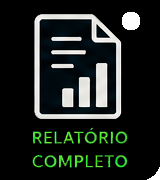
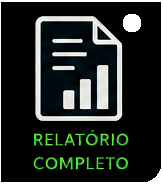
adequações finais - ajustes finos.

diff --git a/SEIAParkingManagement.py b/SEIAParkingManagement.py
@@ -60,7 +60,7 @@ SCALE_APP = 0.70 # ESCALA DA APLICAÇÃO   |
 
 
 global WIDTH, HEIGHT, K, J
-WIDTH = 1300
+WIDTH = 1310
 HEIGHT = 990
 K = 400 #variavel de ajuste para expansão da propriedade na HORIZONTAL 
 J = 530 ##variavel de ajuste para expansão da propriedade na VERTICAL 
@@ -97,6 +97,9 @@ class SEIAParkingManagement(QGraphicsView):
 
         self.scene = QGraphicsScene()
         self.setScene(self.scene)
+        self.setSceneRect(0, 0, WIDTH, HEIGHT)  # trava a sceneRect no tamanho real do seu fundo
+        self.setAlignment(Qt.AlignLeft | Qt.AlignTop)  # ancora (0,0) no canto superior-esquerdo, sem centralizar
+        
         self.turnRound = True
         self.anim = None
         self.recursos = Recursos.Recursos() # [v1.0.0.03]:  classe que agrupa recursos da aplicação
@@ -104,6 +107,8 @@ class SEIAParkingManagement(QGraphicsView):
         self.ip_cam = [] # variavel pra armazenar o IP da camera
         self.ip_cam_pass = "" # armazena a senha de Conexão NVR da Camera WiFi
         self.enable_OCR = True # [v1.0.0.03]:  habilita ou desabilita o OCR (Reconhecimento Óptico de Caracteres) para identificar placas
+
+
         
 
         #==============================================================================================
@@ -114,7 +119,6 @@ class SEIAParkingManagement(QGraphicsView):
         self.bg = QGraphicsPixmapItem(self.pixmap)
         self.bg.setOpacity(0.85) # um pouco transparente para destacar o desenho
         self.scene.addItem(self.bg)
-        
         self.pixmap2 = QPixmap(self.recursos.PATH.logo_marca_dagua_parana) #imagem marca d'agua do gov. do paraná
         self.bg2 = QGraphicsPixmapItem(self.pixmap2)
         self.bg2.setOpacity(0.05)
@@ -573,14 +577,14 @@ class SEIAParkingManagement(QGraphicsView):
 
         #copyright = QGraphicsTextItem("                                                                                                                                                  © 2026 SEIA Parking Management "+ver+".\n Todos os direitos reservados ao Supervisor Especialista em Governança Digital & Transformação Digital André Luis Costa Batistela - um dos nomes mais proeminentes da Diretoria de Inovação e um dos pilares da Inovação no Estado do Paraná.")
         copyright = QGraphicsTextItem(
-            "      © 2026 SEIA Parking Management " + ver + ". Todos os direitos reservados.\n"
-            "                    Secretaria de Inovação e Inteligência Artificial (SEIA)\n"
-            "                                  Diretoria de Inovação (DIN)\n"
-            "                    Desenvolvido por Pablo F. L. (github.com/PabloFrLz)" 
+            "          © 2026 SEIA Parking Management " + ver + ". Todos os direitos reservados.\n"
+            "                        Secretaria de Inovação e Inteligência Artificial (SEIA)\n"
+            "                                         Diretoria de Inovação (DIN)\n"
+            "                        Desenvolvido por Pablo F. L. (github.com/PabloFrLz)" 
         )        
         copyright.setFont(self.recursos.FONTES.fonte_copyright)
         copyright.setDefaultTextColor(QColor("gray"))
-        copyright.setPos(WIDTH+245, HEIGHT+320)
+        copyright.setPos(WIDTH+245, HEIGHT+295)
         copyright.setZValue(10)
         self.scene.addItem(copyright)
 
@@ -758,6 +762,7 @@ class SEIAParkingManagement(QGraphicsView):
         proxy_btn_admin.setPos((WIDTH+K-100)/1.21, 0)
         proxy_btn_admin.setZValue(999)
         self.scene.addItem(proxy_btn_admin)
+
 
      
     """

diff --git a/Sidebar.py b/Sidebar.py
@@ -127,11 +127,11 @@ class Sidebar(QWidget, QObject):
         # Sidebar
         #======================================
         self.sidebar = QWidget()
-        self.sidebar.setFixedWidth(WIDTH - 760)           # largura da sidebar
-        self.sidebar.setFixedHeight(HEIGHT + J - 10)          # altura da sidebar 
+        self.sidebar.setFixedWidth(WIDTH - 780)           # largura da sidebar
+        self.sidebar.setFixedHeight(HEIGHT + 70)          # [v1.0.0.03]: Altura da sidebar. O +70 era pra completar a sidebar até a base inferior
 
         self.sidebar_layout = QVBoxLayout(self.sidebar)
-        self.sidebar_layout.setContentsMargins(20, 0, 20, 0)
+        self.sidebar_layout.setContentsMargins(20, 0, 15, 0)
 
         #======================================
         # Logomarca da SEIA na sidebar
@@ -312,15 +312,18 @@ class Sidebar(QWidget, QObject):
         grupo_buttons_2.addWidget(self.btn_remove_veiculo)
         grupo_buttons_2.addWidget(self.btn_relatorio_completo)
 
-        grupo_buttons_1.setContentsMargins(0, 20, 30, 0) # adicionando um espaçamento de 20px entre o topo do grupo e o topo da sidebar
-        grupo_buttons_2.setContentsMargins(0, 0, 30, 0) 
+
+        grupo_buttons_1.setContentsMargins(10, 20, 25, 0) # adicionando um espaçamento de 20px entre o topo do grupo e o topo da sidebar
+        grupo_buttons_2.setContentsMargins(10, 0, 25, 0) 
 
         #grupo_buttons_1.addSpacing(5)
         #grupo_buttons_2.addSpacing(5)
-
+        
+        self.sidebar_layout.setSpacing(0)
         self.sidebar_layout.addLayout(grupo_buttons_1)
         self.sidebar_layout.addLayout(grupo_buttons_2)
-        self.sidebar_layout.setSpacing(1)
+
+
 
 
         self.list_buttons = [self.btn_registrar_entrada, self.btn_registrar_saida, self.btn_cadastro_servidor, self.btn_cadastro_veiculo, self.btn_remove_servidor, self.btn_remove_veiculo, self.btn_relatorio, self.btn_relatorio_completo]

diff --git a/Recursos.py b/Recursos.py
@@ -10,8 +10,8 @@ class Constantes:
 
         self.MINIMUN_CHARACTER_TO_NAME = 10
 
-        self.ICON_SIZE_X = 115 # tamanho dos icones dos botões da sidebar
-        self.ICON_SIZE_Y = 129 # tamanho dos icones dos botões da sidebar
+        self.ICON_SIZE_X = 115   # tamanho dos icones dos botões da sidebar
+        self.ICON_SIZE_Y = 129   # tamanho dos icones dos botões da sidebar
 
 
 
@@ -224,10 +224,12 @@ class Estilos:
                 border-radius: 5px;
                 min-width: 75px;
                 min-height: 107px;
+                margin: 0px;
+                padding: 0px;
             }}
 
             QPushButton:hover {{
-                background-color: rgba(38, 73, 165, 120);
+                background-color: rgba(38, 73, 165, 200);
                 border: 2px solid #2649A5;
             }}
 
